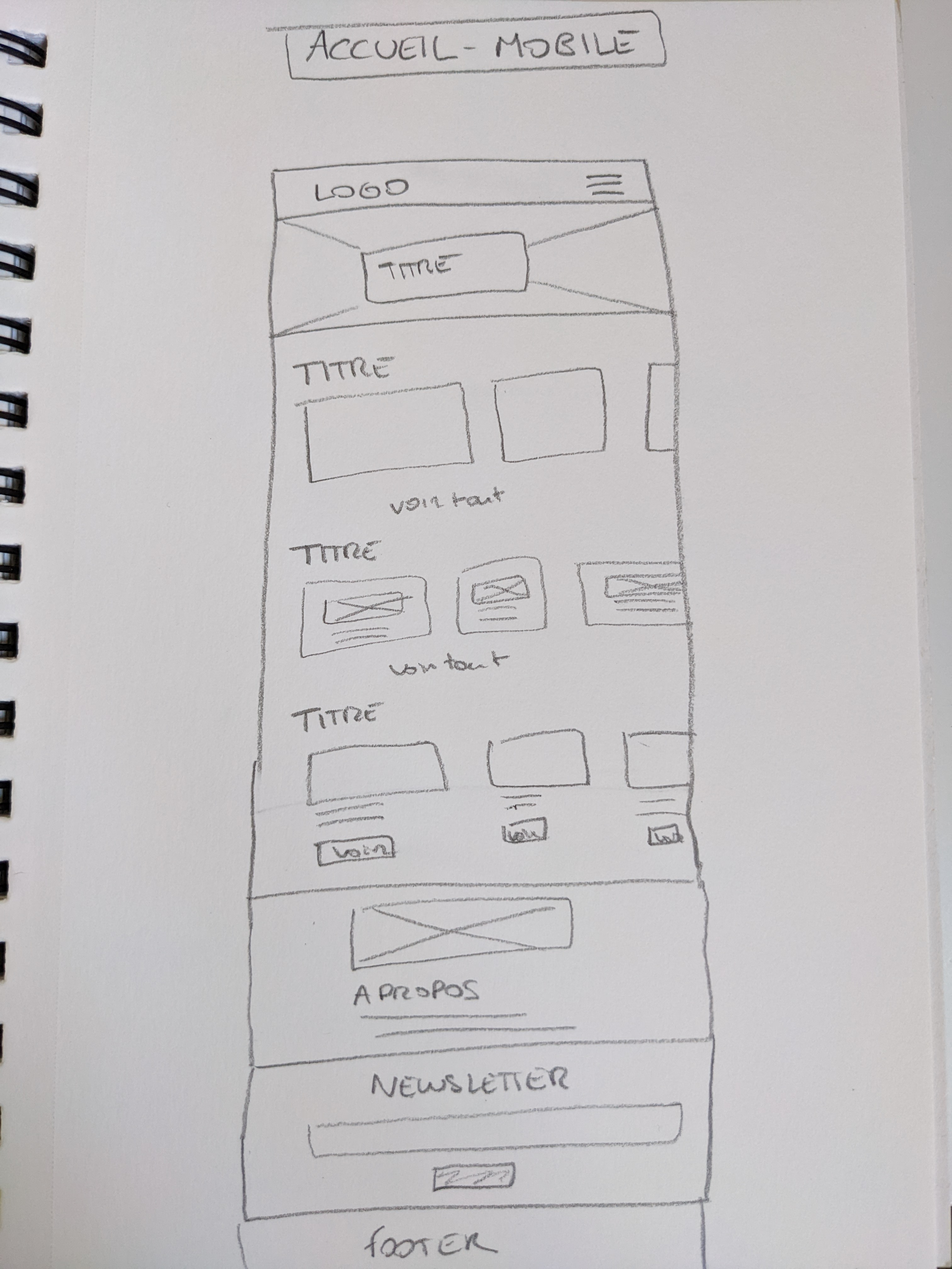
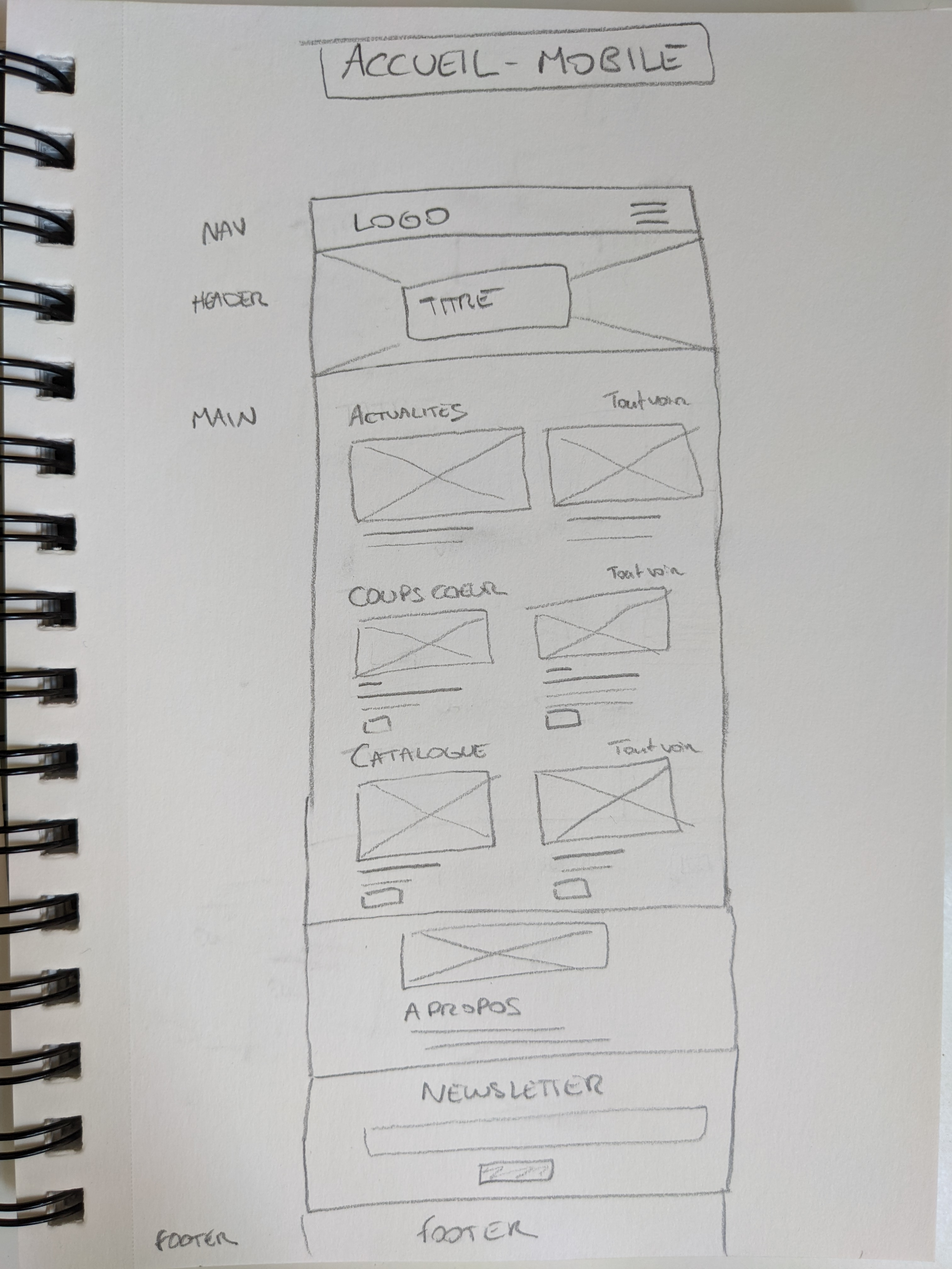
page accueil finie

diff --git a/assets/css/mediaqueries.css b/assets/css/mediaqueries.css
@@ -162,7 +162,26 @@
     opacity: 0.2;
   }
 
+  /* ACCUEIL */
+
+  .grid-item .image-container {
+    min-height: auto;
+  }
+
 }
+
+@media screen and (min-width: 900px) and (max-width: 1250px){
+
+  /* ACCUEIL */
+
+  .item-img-ctn img {
+    width: auto;
+    left: -20px;
+  }
+
+}
+
+
 
 @media screen and (max-width: 900px) {
 
@@ -180,7 +199,7 @@
     margin-bottom: 60px;
   }
 
-  /* PRODUCT ASIDE */
+  /* PRODUCT PAGE */
 
   .main-product {
       margin-bottom: 0;
@@ -202,14 +221,19 @@
     height: 80vh;
   }
 
-  /* ACCUEIL GRID VENTE */
+  /* ACCUEIL GRID ACTUALITES */
 
   .grid-vente {
-      grid-template-columns: repeat(4, 260px);
-      grid-template-rows: 1fr ;
+      grid-template-columns: repeat(2, 1fr);
+      grid-auto-rows: minmax(min-content,max-content);
+      gap: 24px;
       grid-template-areas: 
-      "item1 item2 item3 item4";
-      overflow-x:scroll;
+        "item1 item2"
+        "item3 item4";
+  }
+
+  .grid-vente img {
+    height: auto;
   }
 
   .item1 img {
@@ -218,11 +242,11 @@
   }
 
   .item-img-ctn-small {
-    height: 280px;
+    height: 260px;
   }
 
   .item-img-ctn-small img{
-    top: 0px;
+    top: -30px;
   }
 
   /* ACCUEIL COLORED SECTION A PROPOS */
@@ -278,12 +302,12 @@
   }
 
   .container-items {
-    overflow-x: scroll;
+    grid-template-columns: repeat(2, 1fr);
   }
 
-  .container-items > div {
-    min-width: 260px;
-  }
+  .portrait-container img {
+    left: -37px;
+}
 
   /* PAGE PRODUIT RETOUR*/
 
@@ -305,12 +329,11 @@
 
   .portrait-container {
     min-width: 100%;
-    min-height: 300px;
+    min-height: 500px;
   }
 
   .portrait-container img{
     width: 100%;
-    height: auto;
     left: 0px;
   }
 
@@ -367,6 +390,47 @@
     width: 95vw;
   }
 
+  /* ACCUEIL */
+
+  .grid-vente img {
+    height: 100%;
+  }
+
+  .portrait-container {
+    min-height: 350px;
+  }
+  
+}
+
+@media screen and (max-width: 425px) {
+
+  /* ACCUEIL */
+
+  .container-items {
+    grid-template-columns: repeat(1, 1fr);
+  }
+
+  .grid-vente .item {
+    height: inherit;
+  }
+
+  .grid-vente img {
+    height: auto;
+  }
+
+  .grid-vente {
+      grid-template-columns: repeat(1, 1fr);
+      grid-template-areas: 
+        "item1"
+        "item2"
+        "item3"
+        "item4";
+  }
+
+  .portrait-container {
+    min-height: 300px;
+  }
+
 }
 
 @media screen and (max-width: 320px) {
@@ -376,4 +440,11 @@
   .grid-item-description {
     padding: 10px 5px;
   }
+
+  /* ACCUEIL */
+
+  .portrait-container {
+    min-height: 230px;
+  }
+
 }

diff --git a/index.html b/index.html
@@ -123,32 +123,36 @@
         <!-- SECTION PROCHAINES VENTES -->
         <section>
             <header>
-                <h2>Nos prochaines ventes</h2>
+                <h2>Actualités</h2>
                 <button>Tout voir</button>
             </header>
             <div class="grid-vente">
                 <div class=" item1">
                     <div class="item-img-ctn"><img src="assets/image/vente-item1.jpg" alt=""></div>
                     <h6>Collection privée</h6>
+                    <p>Que faire d'un héritage ?</p>
                 </div>
                 <div class=" item2">
                     <div class="item-img-ctn"><img src="assets/image/vente-item2.jpg" alt=""></div>
                     <h6>Australie</h6>
+                    <p>Une collection rare !</p>
                 </div>
                 <div class="item item3">
                     <div class="item-img-ctn item-img-ctn-small"><img src="assets/image/vente-item3.jpg" alt=""></div>
-                    <h6>Collection privée</h6>
+                    <h6>Correspondance</h6>
+                    <p>Lettres de 1939-1945.</p>
                 </div>
                 <div class="item item4">
                     <div class="item-img-ctn item-img-ctn-small"><img src="assets/image/vente-item4.jpg" alt=""></div>
                     <h6>Lots</h6>
+                    <p>Créer vos propres lots !</p>
                 </div>
             </div>
         </section>
         <!-- SECTION COUP DE COEUR -->
         <section>
             <header>
-                <h2>Les coups de coeur du Lord</h2>
+                <h2>Coups de coeur du Lord</h2>
                 <button>Tout voir</button>
             </header>
             <div class="container-items" id="container-items">

diff --git a/assets/script/gridElements.js b/assets/script/gridElements.js
@@ -25,7 +25,7 @@ const stampInfos = [
                     },
                     {
                         num:'#60',
-                        title:'Jacques Cartier (1855)',
+                        title:'Reine Victoria (1855)',
                         date:'23 juin - 05 aout 22',
                         price:995
                     },
@@ -79,7 +79,7 @@ const elParentGrid = document.getElementById('grid');
 for (let i = 0; i < 12; i++) {
     const domString = `
                     <div class="grid-item"">
-                        <a href="#">
+                        <a href="fiche-produit.html">
                             <div class="image-container"><img src="./assets/image/stamps/stamp${i + 1}.jpg" alt=""></div>
                             <div class="grid-item-description">
                                 <h6>${stampInfos[i].num}</h6>

diff --git a/assets/css/page-accueil.css b/assets/css/page-accueil.css
@@ -40,7 +40,7 @@ section button:hover {
     padding-bottom: 20px;
 }
 
-/* GRID PROCHAINES VENTES */
+/* GRID ACTUALITES */
 
 .grid-vente {
     display: grid;
@@ -55,11 +55,7 @@ section button:hover {
 }
 
 .grid-vente > div {
-    height: 310px;
-}
-
-.grid-vente img {
-    height: 100%;
+    height: 320px;
 }
 
 .grid-vente .item {
@@ -67,13 +63,13 @@ section button:hover {
 }
 
 .item-img-ctn {
-    height: 280px;
+    height: 260px;
     overflow: hidden;
     position: relative;
 }
 
 .item-img-ctn-small {
-    height: 118px;
+    height: 90px;
 }
 
 .item-img-ctn img {
@@ -131,6 +127,8 @@ section button:hover {
 
 .portrait-container img {
     position: absolute;
+    object-fit: cover;
+    width: auto;
 }
 
 .colored-section header {

diff --git a/assets/script/containerItems.js b/assets/script/containerItems.js
@@ -116,7 +116,7 @@ for (let i = 8; i < 12; i++) {
 for (let i = 0; i < 4; i++) {
     const domString = `
                     <div class="grid-item catalog-grid-item"">
-                        <div class="image-container"><img src="./assets/image/index-catalogue-img-${i + 1}.png" alt=""></div>
+                        <div class="image-container image-container-accueil"><img src="./assets/image/index-catalogue-img-${i + 1}.png" alt=""></div>
                         <div class="grid-item-description catalog-grid-item-description">
                             <h4>${catalogItemInfos[i].title}</h4>
                             <p class="light">${catalogItemInfos[i].date}</p>

diff --git a/assets/css/grid-products.css b/assets/css/grid-products.css
@@ -17,9 +17,7 @@
 } */
 
 .grid-item .image-container {
-  display: block;
-    /* width: 98%; */
-    /* height: auto; */
+    display: block;
     min-height: 320px;
     position: relative;
     overflow: hidden;
@@ -27,11 +25,12 @@
     margin: auto;
 }
 
+.grid-item .image-container-accueil {
+  min-height: 280px;
+}
+
 .grid-item .image-container img {
     display: block;
-    /* max-width: 100%;
-    max-height: 100%; */
-    
     position: absolute;
     top: 50%;
     right: 50%;
